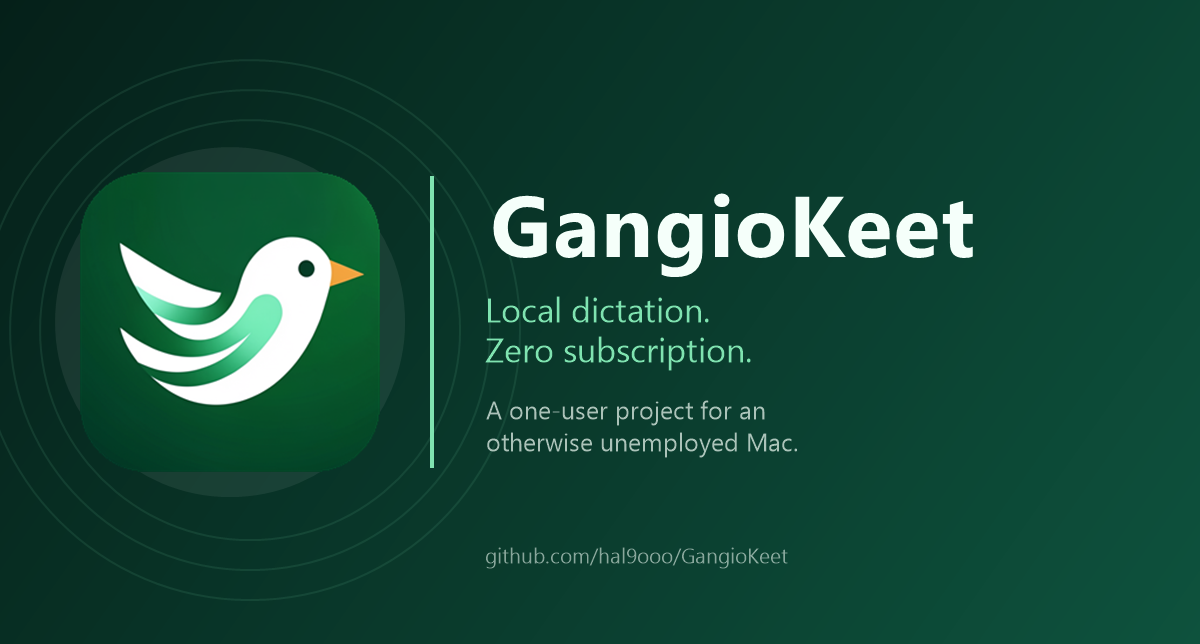
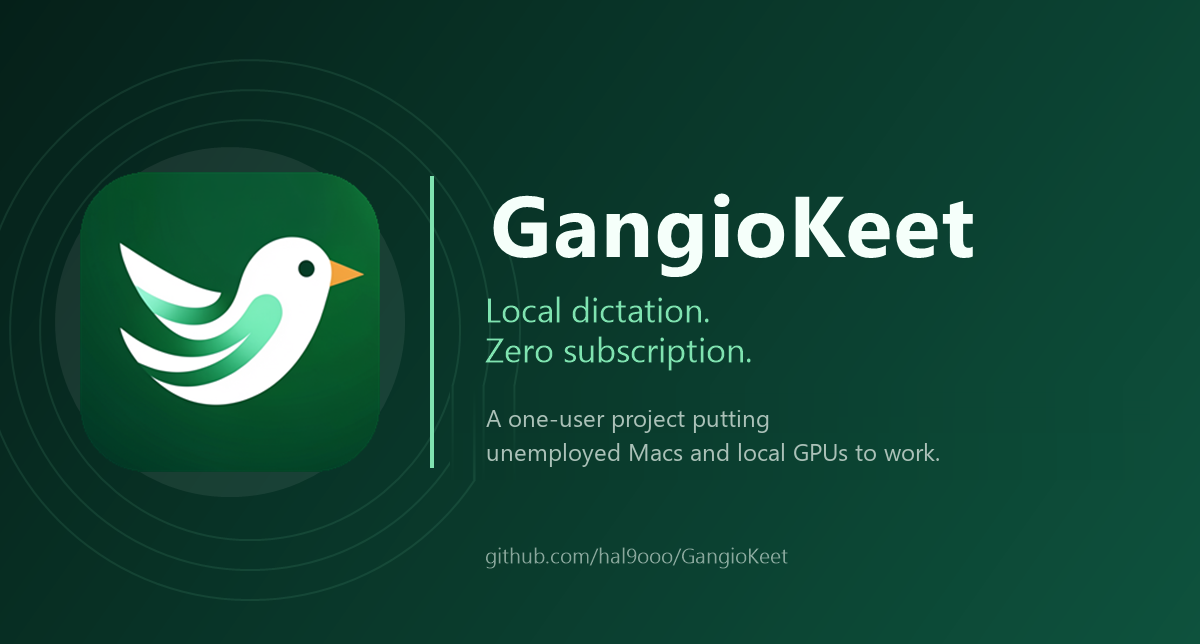
feat(splash): update startup splash with local GPU satirical payoff

Changed region(s): [[0.4008, 0.6211, 0.8017, 0.7143]]

diff --git a/client-windows/tests/GangioKeet.Client.Tests/Ui/SplashWindowTests.cs b/client-windows/tests/GangioKeet.Client.Tests/Ui/SplashWindowTests.cs
@@ -27,6 +27,12 @@ public sealed class SplashWindowTests
         Assert.Null(failure);
     }
 
+    [Fact]
+    public void Payoff_MentionsLocalGpusAndUnemployedMacs()
+    {
+        Assert.Equal("A one-user project putting unemployed Macs and local GPUs to work.", SplashWindow.Payoff);
+    }
+
     private static Exception? RunOnStaThread(Action action)
     {
         Exception? captured = null;

diff --git a/client-windows/src/GangioKeet.Client/Ui/SplashWindow.xaml.cs b/client-windows/src/GangioKeet.Client/Ui/SplashWindow.xaml.cs
@@ -10,6 +10,8 @@ namespace GangioKeet.Client.Ui;
 /// </summary>
 public sealed partial class SplashWindow : Window
 {
+    public const string Payoff = "A one-user project putting unemployed Macs and local GPUs to work.";
+
     private static readonly TimeSpan FadeDuration = TimeSpan.FromMilliseconds(220);
 
     private readonly DispatcherTimer _timer;
